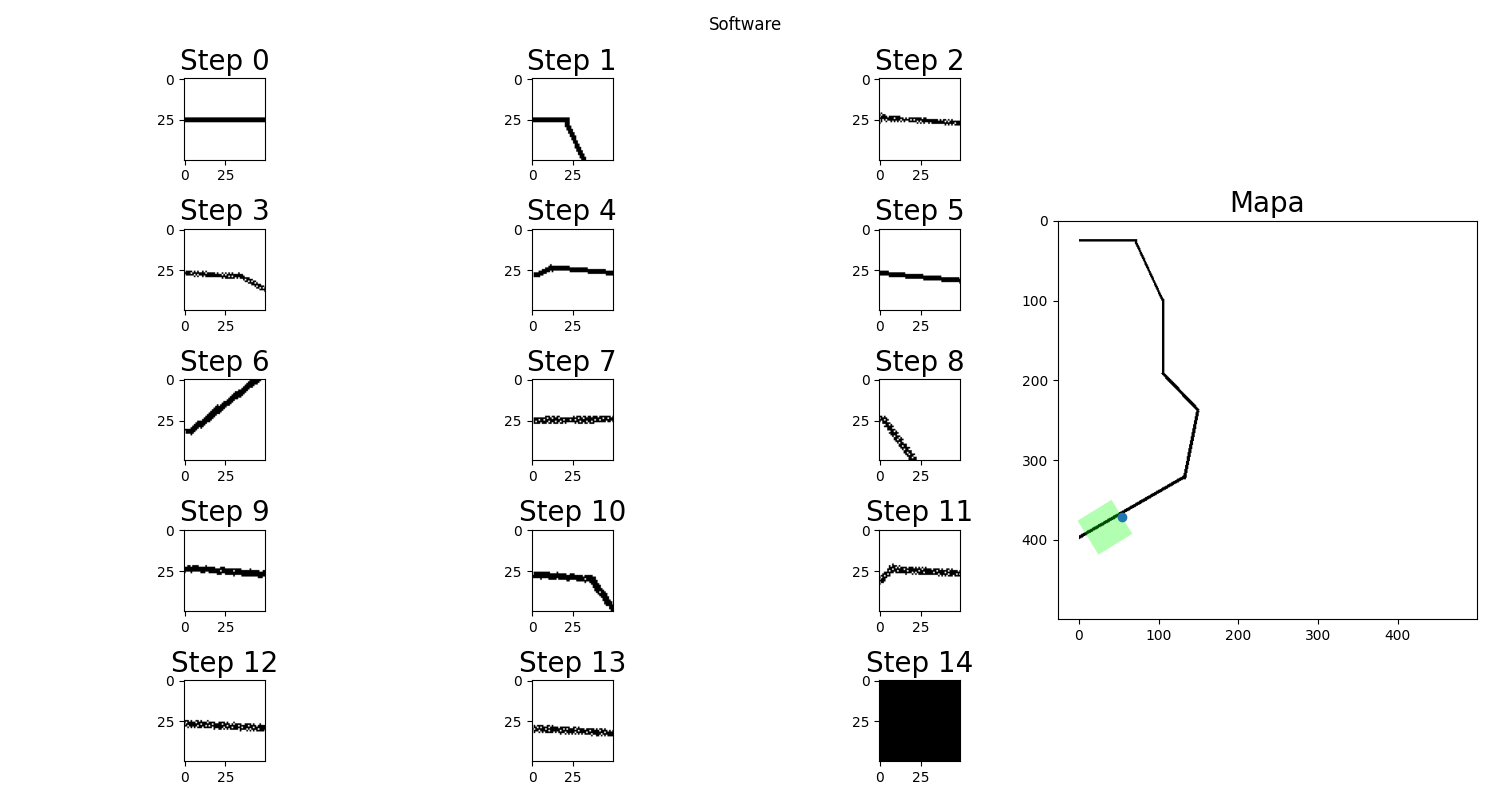
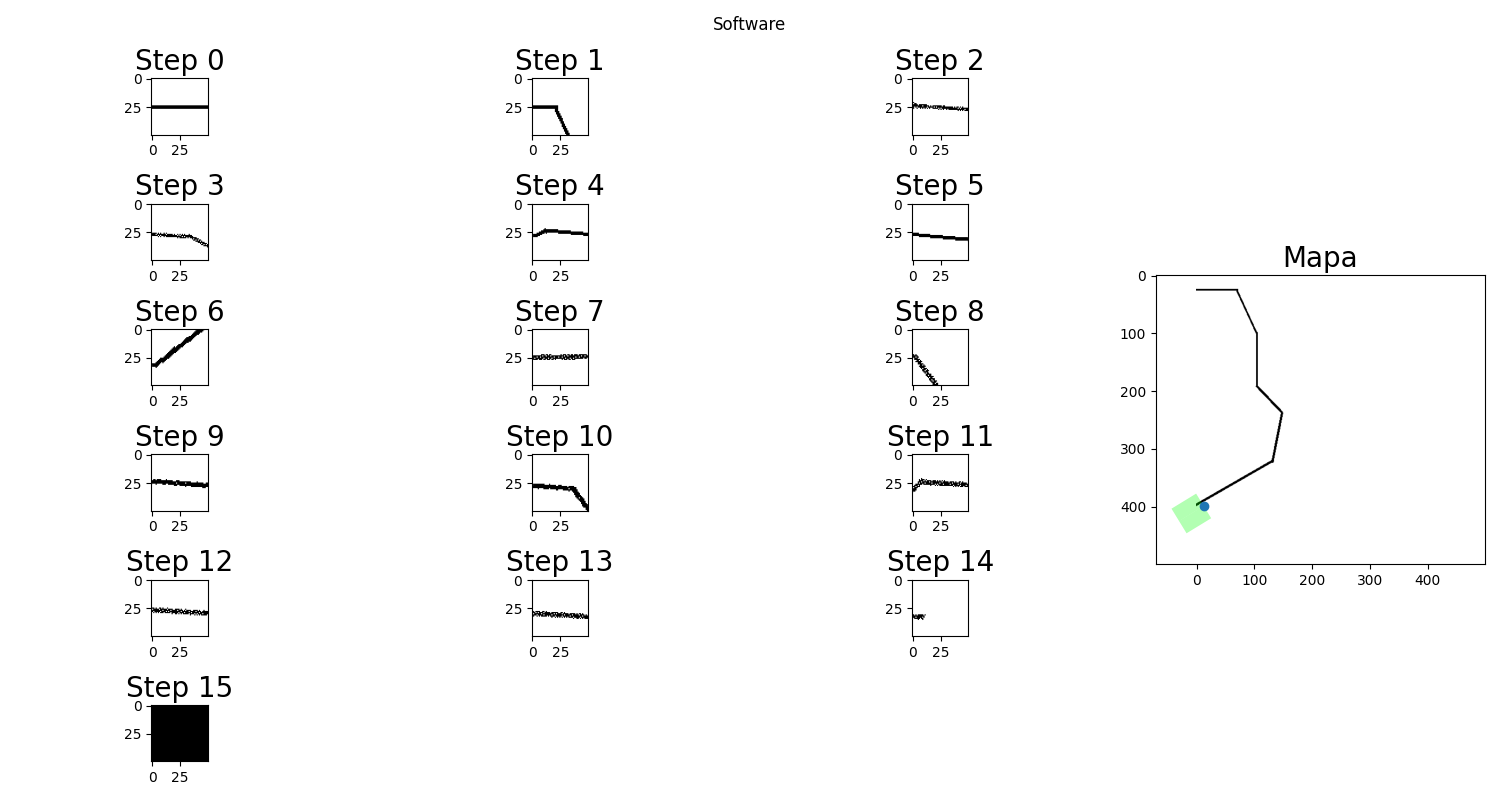
buggedHardwareView

diff --git a/python/fpgaIntegration.py b/python/fpgaIntegration.py
@@ -11,10 +11,11 @@ class ReceivedData:
         self.deltas = []
         self.rot_deltas = []
         self.new_bot_coords = []
+        self.orientation = []
 
 class FPGAintegration:
 
-    def __init__(self, outputName, inputName):
+    def __init__(self, outputName, inputName, viewRange):
         
         self.outputName = outputName #nome para o arquivo txt de saida do codigo e entrada no fpga
         self.inputName = inputName #nome esperado para o arquivo gerado pelo fpga, que lido pelo codigo
@@ -27,7 +28,7 @@ class FPGAintegration:
             file.truncate(0)
         with open(self.inputFile, "w") as file:
             file.truncate(0)    
-
+        self.viewRange = viewRange
         self.receivedData = ReceivedData()
 
 
@@ -38,7 +39,7 @@ class FPGAintegration:
 
             # Append the text to the file
             file.write(str(step) + '\n')
-            file.write(str(bot_coords) + '\n')
+            #file.write(str(bot_coords) + '\n')
             file.write(str(numberOfDots) + '\n')
 
             #dots_string = np.array2string(dots, separator=',')
@@ -61,8 +62,8 @@ class FPGAintegration:
             file.write(str(best_qty) + '\n')
             file.write(str(angle) + '\n')
             file.write(str(delta) + '\n')
-            file.write(str(rot_delta) + '\n')
-            file.write(str(new_bot_coords) + '\n')
+            #file.write(str(rot_delta) + '\n')
+            #file.write(str(new_bot_coords) + '\n')
             file.write("\n")  
 
       
@@ -82,13 +83,15 @@ class FPGAintegration:
             best_qty = lines[line_index + 3].strip()
             angle = lines[line_index + 4].strip()
             delta_str = lines[line_index + 5].strip()
-            rot_delta_str = lines[line_index + 6].strip()[1:-1]  # Remove brackets []
-            new_bot_coords_str = lines[line_index + 7].strip()[1:-1]  # Remove brackets []
+            #rot_delta_str = lines[line_index + 6].strip()[1:-1]  # Remove brackets []
+            #new_bot_coords_str = lines[line_index + 7].strip()[1:-1]  # Remove brackets []
+
+            
 
             # Convert string representations to desired data types
             coefficients = list(map(float, coefficients_str.split(',')))
-            rot_delta = list(map(float, rot_delta_str.split(',')))
-            new_bot_coords = list(map(float, new_bot_coords_str.split(',')))
+            #rot_delta = list(map(float, rot_delta_str.split(',')))
+            #new_bot_coords = list(map(float, new_bot_coords_str.split(',')))
 
             # Append the variables to respective lists
             self.receivedData.steps.append(int(step))
@@ -97,8 +100,30 @@ class FPGAintegration:
             self.receivedData.best_qtys.append(int(best_qty))
             self.receivedData.angles.append(float(angle))
             self.receivedData.deltas.append(float(delta_str))
-            self.receivedData.rot_deltas.append(rot_delta)
+
+            if len(self.receivedData.new_bot_coords)>1:
+                self.receivedData.orientation.append(self.receivedData.orientation[len(self.receivedData.orientation)-1] +np.arctan(coefficients[0]))
+            else:
+                self.receivedData.orientation.append(0 +np.arctan(coefficients[0]))
+            rotated_delta = np.array([float(delta_str) * np.cos(float(angle)), float(delta_str) * np.sin(-float(angle))])
+
+            coefficients = np.array(coefficients)
+            if len(self.receivedData.new_bot_coords)>1:
+                new_bot_coords = (self.receivedData.new_bot_coords[len(self.receivedData.new_bot_coords)-1] + rotated_delta)
+                #self.receivedData.orientation.append(self.receivedData.orientation[len(self.receivedData.orientation)-1] -np.arctan(coefficients[0]))
+            else:
+                new_bot_coords = (np.array([0,self.viewRange]) + rotated_delta)
+                #self.receivedData.orientation.append(0 -np.arctan(coefficients[0]))
             self.receivedData.new_bot_coords.append(new_bot_coords)
 
+            #print(self.receivedData.new_bot_coords[len(self.receivedData.new_bot_coords)-1])
+            self.receivedData.orientation.append(float(angle))
+            #self.receivedData.rot_deltas.append(rot_delta)
+            #self.receivedData.new_bot_coords.append(new_bot_coords)
+
             # Move to the next set of lines
-            line_index += 9
+            line_index += 7
+        print("\nROTATED DELTA")
+        print(rotated_delta)
+        print("NEW BOT COORDS TYPE")
+        print(new_bot_coords)

diff --git a/python/main.py b/python/main.py
@@ -58,8 +58,10 @@ def main():
   viewFPGA= MapViewer("Hardware", dataset,4)
   viewFPGA.startViewer()
 
+  
+
   # Inicializa a integracao txt com o fpga
-  fpga = FPGAintegration('FPGAin', 'FPGAout')
+  fpga = FPGAintegration('FPGAin', 'FPGAout', view_range)
 
   #Loop iterativo da movimentaco do robo
   while run == True:
@@ -68,14 +70,16 @@ def main():
     initial_view_coord = np.array([0,view_range])
     translated_coords = viewed_coordinates - (np.array(bot_coords) - initial_view_coord)
 
-    
+    #Atualiza a vista atual 
     view.updateView(translated_coords, bot_coords, np.rad2deg(angle), view_range) 
-    #Atualiza a vista atual
+    
+    #Exporta os dados para o FPGA
+    fpga.exportData(step, bot_coords, len(translated_coords), translated_coords) 
 
     ransacRes = RANSAC(translated_coords, view_range) #Calcula o ransac
     
     model = ransacRes.bestModel
-    if(model.a == 0):
+    if(model.a < 0.1 and model.a > -0.1):
       delta = 2 * view_range
     else:
       delta = (view_range - model.b) / model.a
@@ -91,18 +95,18 @@ def main():
     print(bot_coords)
     printRansac(ransacRes) #Imprime os parametros do ransac
 
-    #Exporta os dados para o FPGA
-    fpga.exportData(step, bot_coords, len(translated_coords), translated_coords) 
 
     #Exporta os dados para simular a presenca de um hardware FPGA enviando os dados.
-    fpga.exportData2(step, [ransacRes.bestModel.a, ransacRes.bestModel.b], ransacRes.bestFit, ransacRes.bestQty, angle, delta, rotated_delta.tolist(), bot_coords.tolist())
+    FPGAangle = np.arctan(ransacRes.bestModel.a)
+    fpga.exportData2(step, [ransacRes.bestModel.a, ransacRes.bestModel.b], ransacRes.bestFit, ransacRes.bestQty, FPGAangle, delta, rotated_delta.tolist(), bot_coords.tolist())
     #Comentar a linha acima quando estiver com um FPGA gerando os txts
 
     #Importa os dados do fpga
     fpga.importData()
 
+
     #Atualiza a vista via hardware
-    receivedAngle = np.rad2deg(fpga.receivedData.angles[len(fpga.receivedData.steps)-1])
+    receivedAngle = np.rad2deg(fpga.receivedData.orientation[len(fpga.receivedData.steps)-1])
     viewFPGA.updateView(translated_coords, fpga.receivedData.new_bot_coords[len(fpga.receivedData.steps)-1], receivedAngle, view_range) 
 
     if STOPINGMODE == True: #Se o STOPINGMODE estiver ligado, espera o enter do usuario a cada ciclo para continuar
